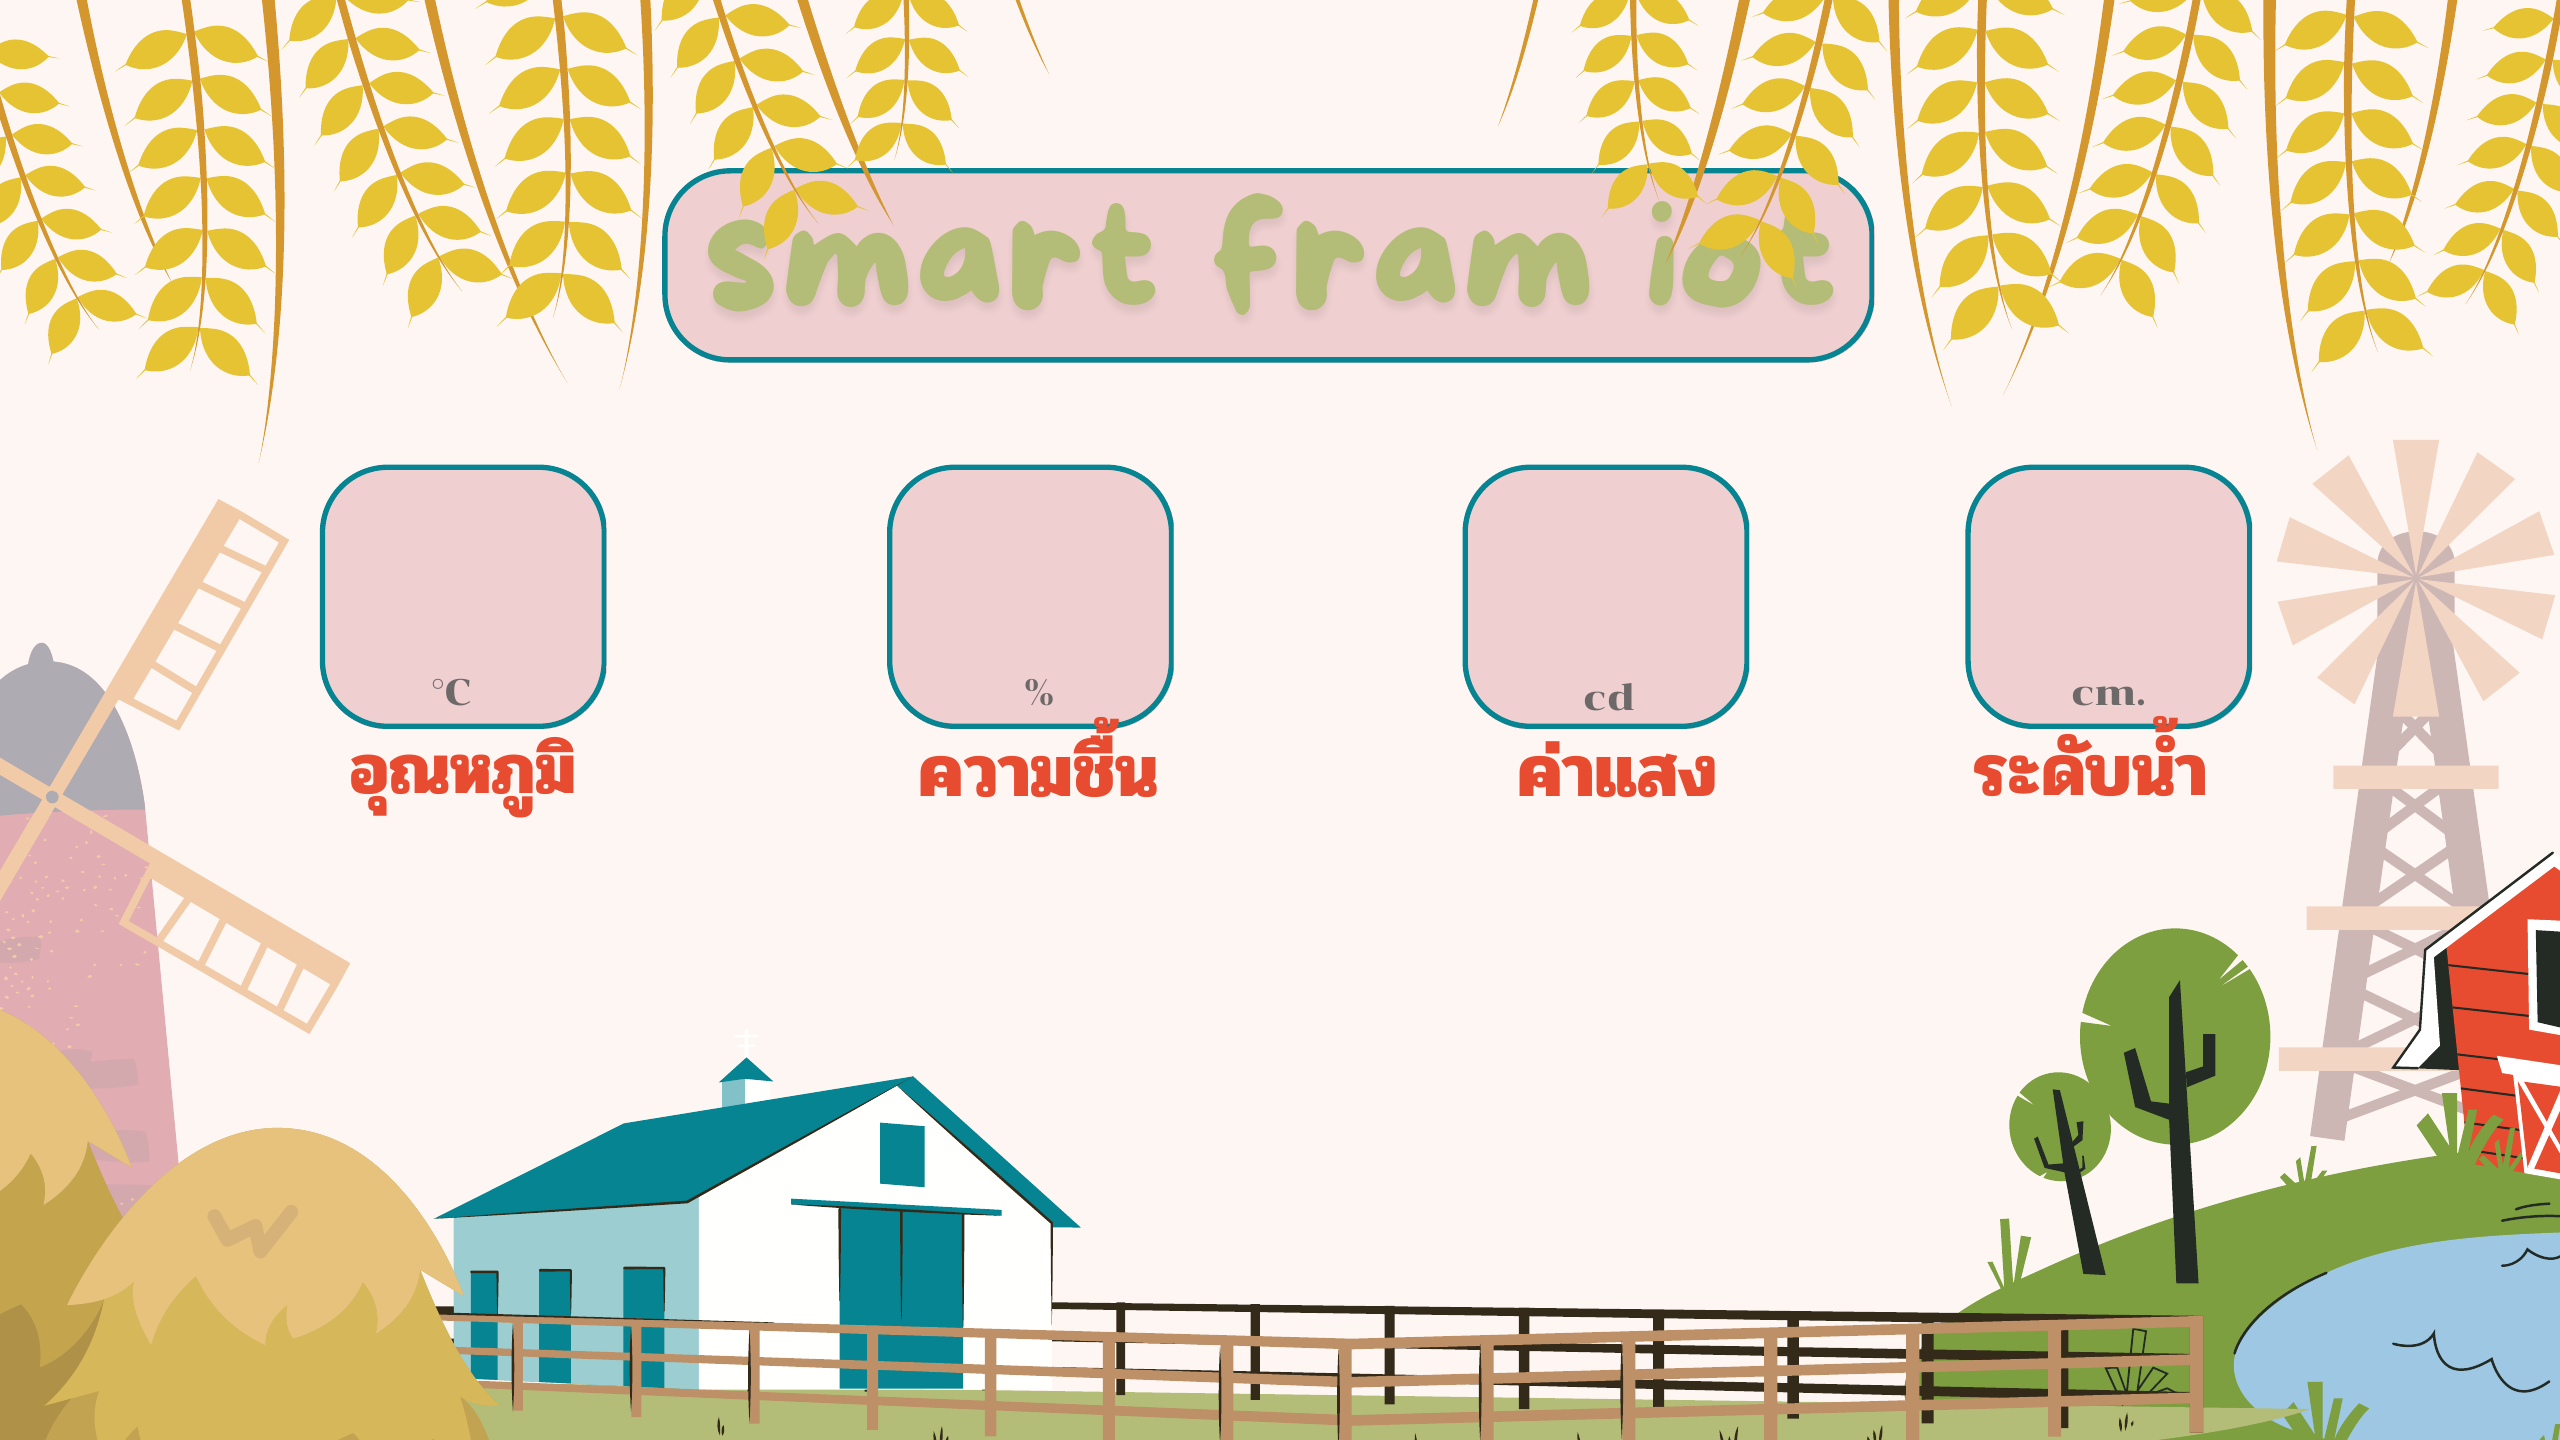
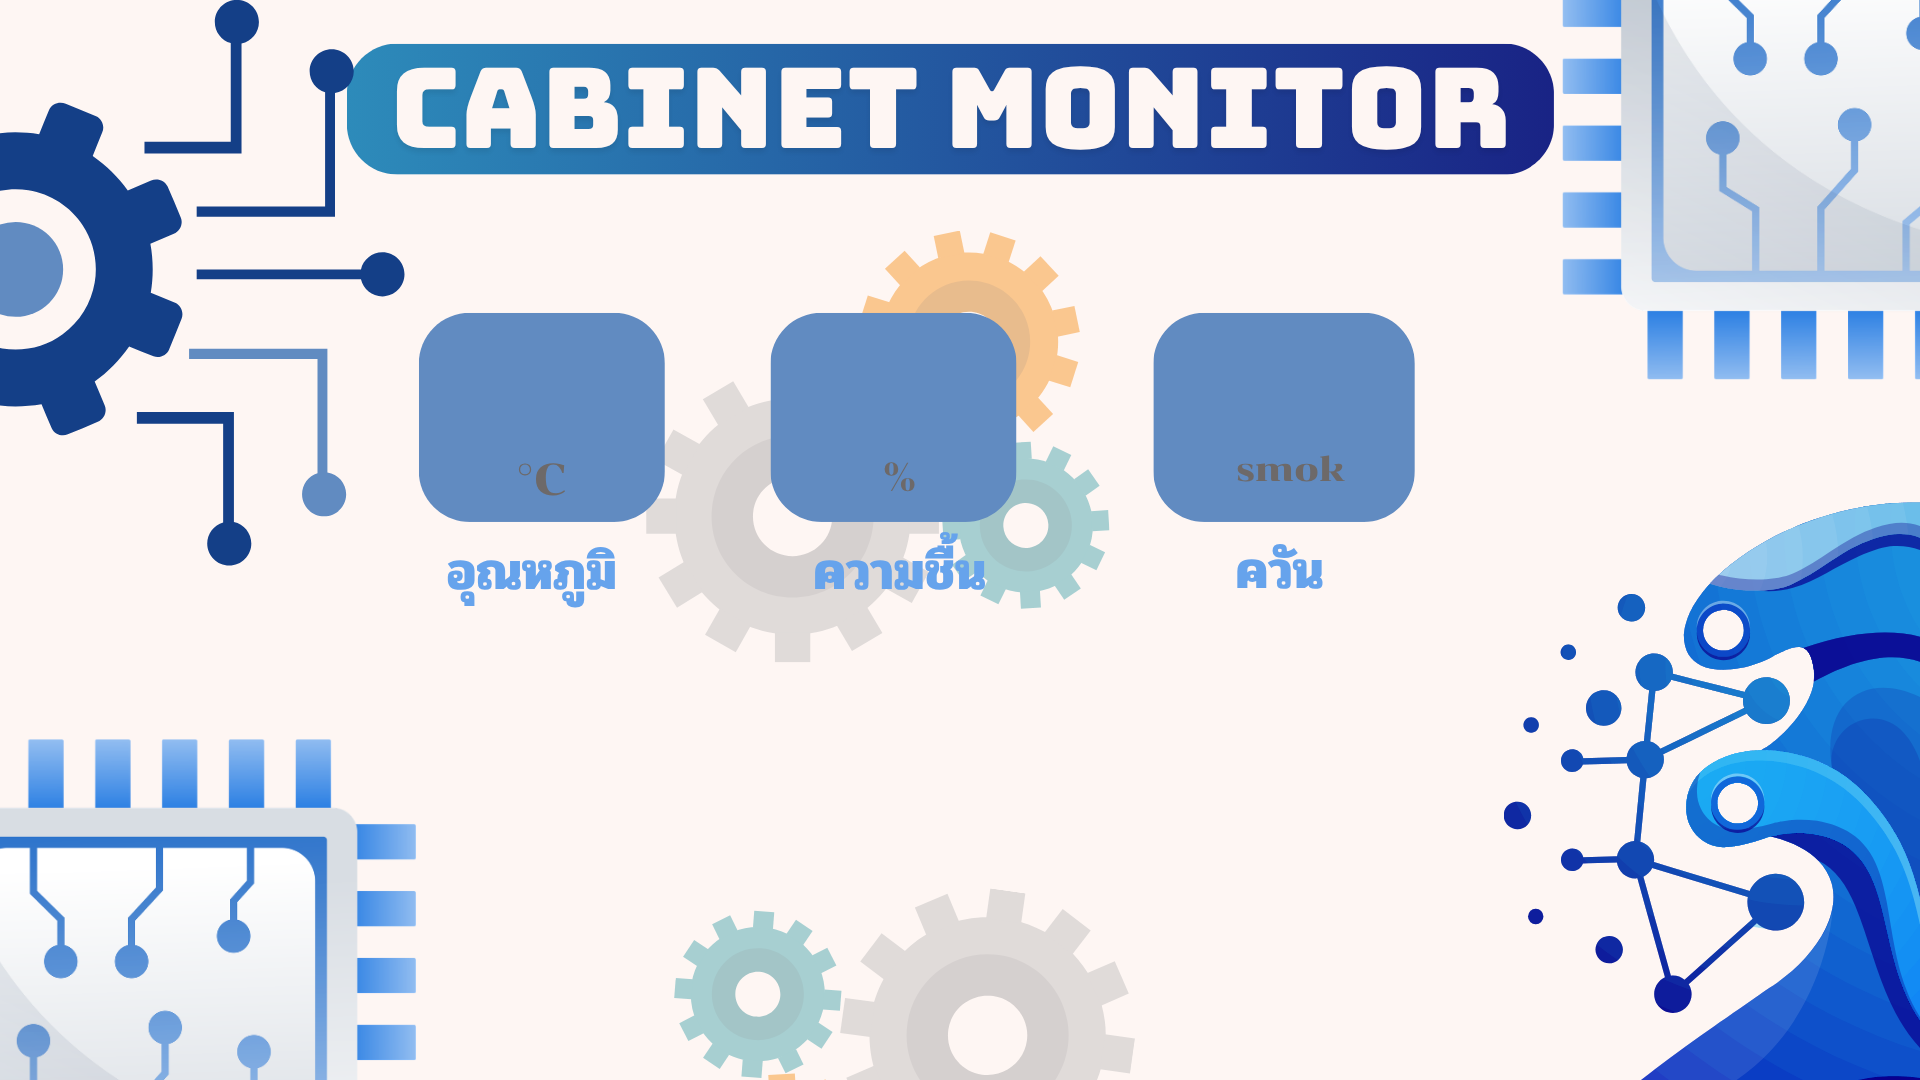
Add files via upload

diff --git a/index.html b/index.html
@@ -3,104 +3,89 @@
 <head>
 <meta charset="UTF-8">
 <meta name="viewport" content="width=device-width, initial-scale=1">
-<title>smart fram iot</title>
+<title>CABINET MONITOR</title>
 <link rel="preconnect" href="https://fonts.googleapis.com">
 <link rel="preconnect" href="https://fonts.gstatic.com" crossorigin>
-<link href="https://fonts.googleapis.com/css2?family=Figtree:wght@700&display=swap" rel="stylesheet">
+<link href="https://fonts.googleapis.com/css2?family=Inter:wght@600&display=swap" rel="stylesheet">
 <style>
-  /* 1 หน่วย = 1 พิกเซลของภาพต้นแบบขนาด 1456 x 819 (สเกลตามหน้าจอ) */
+  /* 1 หน่วย = 1 พิกเซลของรูปต้นแบบขนาด 1920 x 1080 (สเกลตามหน้าจอ) */
   :root{
-    --px: calc(max(100vw, 100vh * 1456 / 819) / 1456);
+    --px: calc(max(100vw, 100vh * 16 / 9) / 1920);
     --bg: #fef6f3;
-    --track: #e2adb2;
-    --track-on: #9db36a;
-    --knob: #af9148;
-    --knob-line: #2b2a22;
+    --track: #6d6969;
+    --track-on: #6b9fe0;
+    --knob-border: #143f87;
   }
   *{ box-sizing:border-box; margin:0; padding:0; }
   html,body{ width:100%; height:100%; overflow:hidden; background:var(--bg); }
 
-  /* เวทีขนาดอัตราส่วน 16:9 แบบ cover เต็มจอ (desktop) */
+  /* เวทีอัตราส่วน 16:9 ขยายเต็มจอแบบ cover (สำหรับ desktop) */
   .stage{
     position:absolute; left:50%; top:50%;
-    width:calc(var(--px) * 1456);
-    height:calc(var(--px) * 819);
+    width:calc(var(--px) * 1920);
+    height:calc(var(--px) * 1080);
     transform:translate(-50%,-50%);
     background:url("2.png") center/100% 100% no-repeat;
     user-select:none; -webkit-user-select:none;
   }
-
-  /* ชื่อหัวข้อ (สีเข้มตามต้นแบบ) วางทับพอดีตำแหน่งเดิม */
-  .title{
-    position:absolute;
-    left:calc(var(--px) * 395); top:calc(var(--px) * 100);
-    width:calc(var(--px) * 655); height:calc(var(--px) * 103);
-    display:block; pointer-events:none;
-  }
   h1{ position:absolute; width:1px; height:1px; overflow:hidden; clip:rect(0 0 0 0); }
 
-  /* ตัวเลขในการ์ด */
+  /* ตัวเลขในการ์ด: --cx = กึ่งกลางแนวนอน, --top = ตำแหน่งบน (หน่วยพิกเซลต้นแบบ) */
   .value{
-    position:absolute; top:calc(var(--px) * 287);
-    width:calc(var(--px) * 161); height:calc(var(--px) * 100);
-    display:flex; align-items:center; justify-content:center;
-    font-family:"Figtree","Poppins","Segoe UI",Arial,sans-serif;
-    font-weight:700; font-size:calc(var(--px) * 86); line-height:1;
-    color:#000; letter-spacing:calc(var(--px) * -1);
-    pointer-events:none;
+    position:absolute;
+    left:calc(var(--px) * var(--cx)); top:calc(var(--px) * var(--top));
+    transform:translateX(-50%);
+    font-family:"Inter","Arial",sans-serif;
+    font-weight:600; font-size:calc(var(--px) * 84); line-height:1; letter-spacing:calc(var(--px) * 11); padding-left:calc(var(--px) * 11);
+    color:#000; white-space:nowrap; pointer-events:none;
   }
-  #v-temp{ left:calc(var(--px) * 183); }
-  #v-hum { left:calc(var(--px) * 510); }
-  #v-light{left:calc(var(--px) * 833); }
-  #v-water{left:calc(var(--px) * 1123);}
+  #v-temp { --cx:544;  --top:360; }
+  #v-hum  { --cx:903;  --top:359.5; }
+  #v-smoke{ --cx:1285.5; --top:355; }
 
   /* ปุ่ม toggle */
   .toggle{
-    position:absolute;
-    width:calc(var(--px) * 100); height:calc(var(--px) * 35);
-    border-radius:calc(var(--px) * 18);
+    position:absolute; top:calc(var(--px) * 622);
+    width:calc(var(--px) * 201); height:calc(var(--px) * 80);
+    border-radius:calc(var(--px) * 40);
     background:var(--track);
     cursor:pointer; touch-action:none; outline:none;
     transition:background .25s ease;
     --p:0;
   }
   .toggle[aria-checked="true"]{ background:var(--track-on); }
-  .toggle:focus-visible{ box-shadow:0 0 0 calc(var(--px) * 3) rgba(7,133,148,.6); }
+  .toggle:focus-visible{ box-shadow:0 0 0 calc(var(--px) * 5) rgba(43,111,200,.55); }
   .knob{
-    position:absolute; left:calc(var(--px) * -1); top:calc(var(--px) * 0.5);
-    width:calc(var(--px) * 34); height:calc(var(--px) * 34);
+    position:absolute; left:0; top:calc(var(--px) * 7);
+    width:calc(var(--px) * 67); height:calc(var(--px) * 67);
     border-radius:50%;
-    background:var(--knob);
-    border:calc(var(--px) * 2.5) solid var(--knob-line);
-    transform:translateX(calc(var(--px) * 67 * var(--p)));
+    border:calc(var(--px) * 4) solid var(--knob-border);
+    background:linear-gradient(90deg,#2a7ab1,#1c308c);
+    transform:translateX(calc(var(--px) * 134 * var(--p)));
     transition:transform .22s cubic-bezier(.4,0,.2,1);
   }
   .toggle.dragging .knob{ transition:none; }
-  #t-temp { left:calc(var(--px) * 208);  top:calc(var(--px) * 483); }
-  #t-hum  { left:calc(var(--px) * 541);  top:calc(var(--px) * 483); }
-  #t-light{ left:calc(var(--px) * 865);  top:calc(var(--px) * 483); }
-  #t-water{ left:calc(var(--px) * 1156); top:calc(var(--px) * 485); }
+  #t-temp { left:calc(var(--px) * 441); }
+  #t-hum  { left:calc(var(--px) * 799); }
+  #t-smoke{ left:calc(var(--px) * 1178); }
 </style>
 </head>
 <body>
   <main class="stage">
-    <h1>smart fram iot</h1>
-    <img class="title" src="title.png" alt="">
+    <h1>CABINET MONITOR</h1>
 
-    <div class="value" id="v-temp">25</div>
-    <div class="value" id="v-hum">60</div>
-    <div class="value" id="v-light">100</div>
-    <div class="value" id="v-water">10</div>
+    <div class="value" id="v-temp">30</div>
+    <div class="value" id="v-hum">50</div>
+    <div class="value" id="v-smoke">1023</div>
 
-    <div class="toggle" id="t-temp"  role="switch" aria-checked="false" aria-label="อุณหภูมิ" tabindex="0" data-target="v-temp"  data-min="20" data-max="40"><div class="knob"></div></div>
-    <div class="toggle" id="t-hum"   role="switch" aria-checked="false" aria-label="ความชื้น" tabindex="0" data-target="v-hum"   data-min="30" data-max="90"><div class="knob"></div></div>
-    <div class="toggle" id="t-light" role="switch" aria-checked="false" aria-label="ค่าแสง"   tabindex="0" data-target="v-light" data-min="50" data-max="500"><div class="knob"></div></div>
-    <div class="toggle" id="t-water" role="switch" aria-checked="false" aria-label="ระดับน้ำ" tabindex="0" data-target="v-water" data-min="1"  data-max="30"><div class="knob"></div></div>
+    <div class="toggle" id="t-temp"  role="switch" aria-checked="false" aria-label="อุณหภูมิ"  tabindex="0" data-target="v-temp"  data-min="20" data-max="40"><div class="knob"></div></div>
+    <div class="toggle" id="t-hum"   role="switch" aria-checked="false" aria-label="ความชื้น"  tabindex="0" data-target="v-hum"   data-min="30" data-max="90"><div class="knob"></div></div>
+    <div class="toggle" id="t-smoke" role="switch" aria-checked="false" aria-label="ควัน"     tabindex="0" data-target="v-smoke" data-min="0"  data-max="1023"><div class="knob"></div></div>
   </main>
 
 <script>
   const rand = (min, max) => Math.floor(Math.random() * (max - min + 1)) + min;
-  const UPDATE_MS = 1500;
+  const UPDATE_MS = 1500;   // ความถี่การสุ่มค่าเมื่อ toggle เป็น ON
 
   document.querySelectorAll('.toggle').forEach(tg => {
     const out = document.getElementById(tg.dataset.target);
@@ -114,20 +99,18 @@
       tg.setAttribute('aria-checked', on);
       tg.style.setProperty('--p', on ? 1 : 0);
       clearInterval(timer);
-      if (on) { randomize(); timer = setInterval(randomize, UPDATE_MS); } // ON = สุ่มค่าต่อเนื่อง
+      if (on) { randomize(); timer = setInterval(randomize, UPDATE_MS); } // ON  = สุ่มค่าต่อเนื่อง
     };                                                                     // OFF = หยุดค่าไว้
 
-    randomize();      // สุ่มค่าตอนเปิดหน้าเว็บ (ตำแหน่งเค้าโครงคงเดิม)
+    randomize();       // สุ่มค่าตอนเปิดหน้าเว็บ (เค้าโครงอยู่ที่เดิม)
     setState(false);
 
     // คลิก / ลากปุ่ม
     let startX = 0, moved = false, dragging = false;
-    const rect = () => tg.getBoundingClientRect();
     const posToP = (x) => {
-      const r = rect(), knob = r.height;
-      return Math.min(1, Math.max(0, (x - r.left - knob / 2) / (r.width - knob)));
+      const r = tg.getBoundingClientRect(), k = r.height;
+      return Math.min(1, Math.max(0, (x - r.left - k / 2) / (r.width - k)));
     };
-
     tg.addEventListener('pointerdown', e => {
       dragging = true; moved = false; startX = e.clientX;
       tg.setPointerCapture(e.pointerId);
@@ -139,13 +122,11 @@
         tg.style.setProperty('--p', posToP(e.clientX));
       }
     });
-    const end = e => {
+    tg.addEventListener('pointerup', e => {
       if (!dragging) return;
       dragging = false; tg.classList.remove('dragging');
-      if (moved) setState(posToP(e.clientX) >= 0.5);
-      else setState(!on);
-    };
-    tg.addEventListener('pointerup', end);
+      setState(moved ? posToP(e.clientX) >= 0.5 : !on);
+    });
     tg.addEventListener('pointercancel', () => { dragging = false; tg.classList.remove('dragging'); setState(on); });
 
     tg.addEventListener('keydown', e => {
